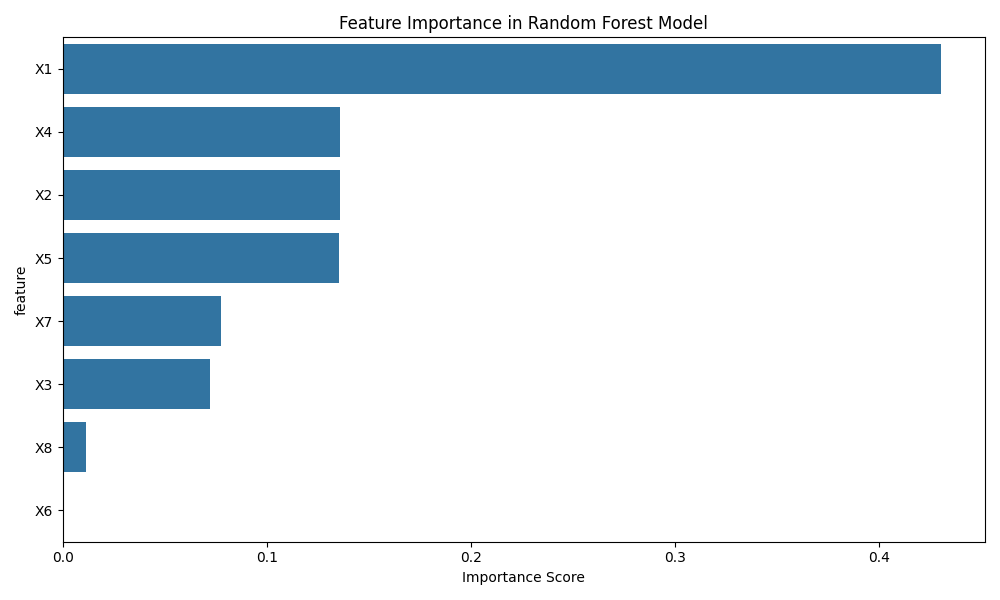
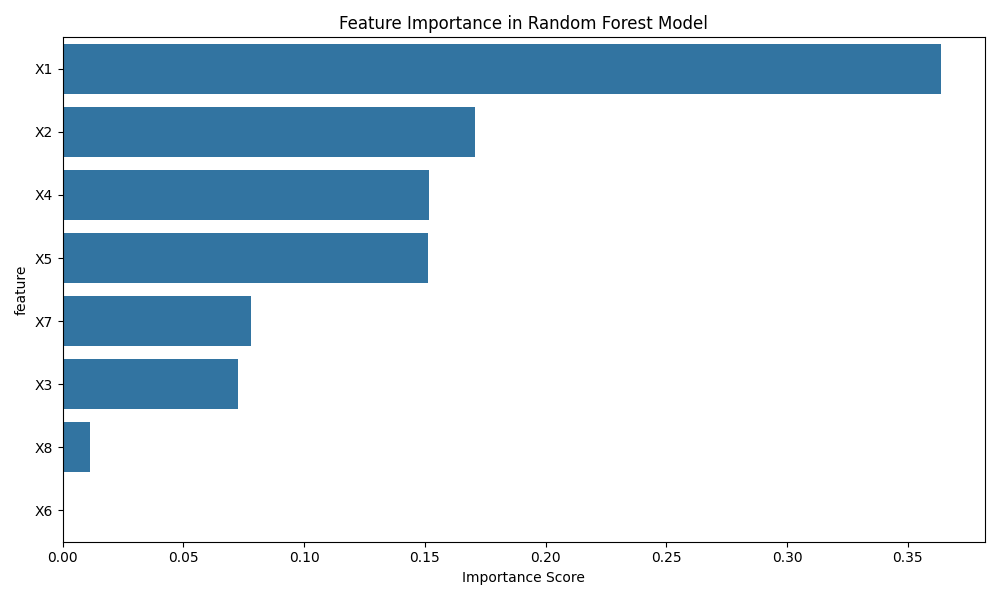
model improvement and fix imbalanced dataset with smote

diff --git a/main.py b/main.py
@@ -12,6 +12,8 @@ from sklearn.metrics import (
     mean_absolute_error, 
     mean_absolute_percentage_error
 )
+from imblearn.over_sampling import SMOTE
+from sklearn.datasets import make_classification
 
 def load_and_preprocess_data(file_path):
     try:
@@ -28,6 +30,17 @@ def load_and_preprocess_data(file_path):
     
     print("\nMissing Values:")
     print(data.isnull().sum())
+
+    data = data.fillna(data.mean())
+   
+    print("\nCorrelation Matrix:")
+    corr_matrix = data.corr()
+    plt.figure(figsize=(10, 6))
+    sns.heatmap(corr_matrix, annot=True, fmt=".2f")
+    plt.title('Correlation Matrix')
+    plt.tight_layout()
+    plt.savefig('correlation_matrix.png')
+    plt.close()
     
     return data
 
@@ -43,7 +56,7 @@ def preprocess_data(data: pd.DataFrame):
         X_scaled, y, test_size=0.2, train_size=0.8, random_state=42
     )
     
-    return X_train, X_test, y_train, y_test
+    return X_train, X_test, y_train, y_test, X, y
 
 def build_and_evaluate_model(X_train, X_test, y_train, y_test):
     model = RandomForestRegressor(random_state=42, n_estimators=100)
@@ -122,6 +135,31 @@ def hyperparameter_tuning(X_train, X_test, y_train, y_test):
     
     return best_model
 
+def improve_model(X_train, X_test, y_train, y_test, X, y):
+    X, y = make_classification(n_classes=2, class_sep=2, weights=[0.1, 0.9], n_informative=3, n_redundant=1, flip_y=0, n_features=20, n_clusters_per_class=1, n_samples=1000, random_state=10)
+    smote = SMOTE(random_state=42)
+    X_smote, y_smote = smote.fit_resample(X, y)
+
+    X_train, X_test, y_train, y_test = train_test_split(
+        X_smote, y_smote, test_size=0.2, train_size=0.8, random_state=42
+    )
+
+    model = RandomForestRegressor(random_state=42, n_estimators=100)
+    model.fit(X_train, y_train)
+
+    y_pred = model.predict(X_test)
+
+    mse = mean_squared_error(y_test, y_pred)
+    mae = mean_absolute_error(y_test, y_pred)
+    mape = mean_absolute_percentage_error(y_test, y_pred)
+    r2 = r2_score(y_test, y_pred)
+
+    print("\nModel Performance Metrics after SMOTE:")
+    print(f"Mean Squared Error (MSE): {mse:.4f}")
+    print(f"Mean Absolute Error (MAE): {mae:.4f}")
+    print(f"Mean Absolute Percentage Error (MAPE): {mape:.4f}")
+    print(f"R2 Score: {r2:.4f}")
+
 def main():
     file_path = "GR10_Prediction.xlsx"
     
@@ -130,13 +168,15 @@ def main():
     if data is None:
         return
     
-    X_train, X_test, y_train, y_test = preprocess_data(data)
+    X_train, X_test, y_train, y_test, X, y = preprocess_data(data)
     
     initial_model, feature_importance = build_and_evaluate_model(X_train, X_test, y_train, y_test)
     
     best_model = hyperparameter_tuning(X_train, X_test, y_train, y_test)
 
     feature_importance.to_csv('feature_importance.csv', index=False)
+
+    improve_model(X_train, X_test, y_train, y_test, X, y)
 
 if __name__ == "__main__":
     main()
